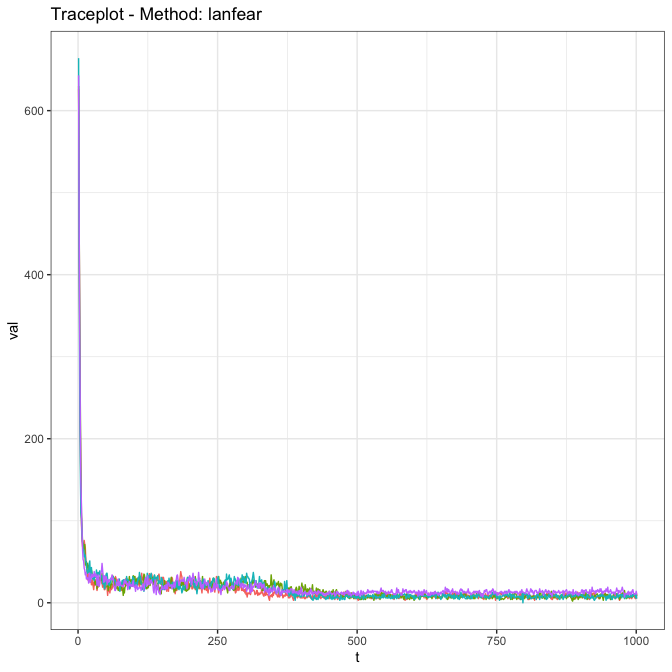
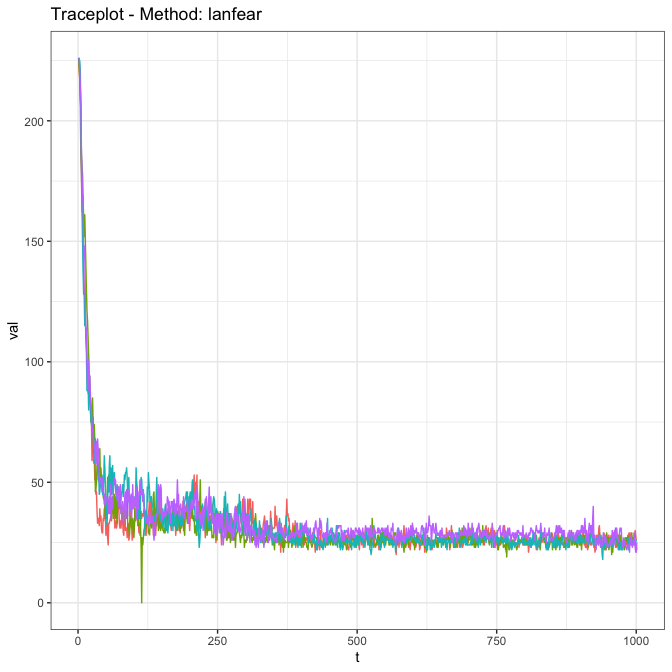
Prep for CRAN submission

diff --git a/README.md b/README.md
@@ -94,6 +94,12 @@ longer).
 
 ``` r
 skipTrack.diagnostics(ft, param = 'cijs')
+#> Warning in attr(x, "align"): 'xfun::attr()' is deprecated.
+#> Use 'xfun::attr2()' instead.
+#> See help("Deprecated")
+#> Warning in attr(x, "align"): 'xfun::attr()' is deprecated.
+#> Use 'xfun::attr2()' instead.
+#> See help("Deprecated")
 ```
 
 <img src="man/figures/README-unnamed-chunk-5-1.png" width="100%" style="display: block; margin: auto;" />
@@ -104,15 +110,15 @@ skipTrack.diagnostics(ft, param = 'cijs')
     #> 
     #> |Effective Sample Size: 
     #> |---------------------------
-    #> | Chain 1| Chain 2| Chain 3| Chain 4|     Sum|
-    #> |-------:|-------:|-------:|-------:|-------:|
-    #> |  86.077|    81.6|  91.054| 114.178| 372.909|
+    #> | Chain 1| Chain 2| Chain 3| Chain 4|    Sum|
+    #> |-------:|-------:|-------:|-------:|------:|
+    #> |  26.895|  18.342|  18.723|  19.814| 83.774|
     #> 
     #> |psrf: 
     #> |---------------------------
     #> | Point est.| Upper C.I.|
     #> |----------:|----------:|
-    #> |      1.001|      1.005|
+    #> |      1.003|      1.009|
 
 ### Visualization
 
@@ -148,21 +154,21 @@ produces the following output:
     #> Mean Coefficients: 
     #> 
     #>             Estimate       95% CI Lower 95% CI Upper
-    #> (Intercept)    3.406              3.376        3.436
+    #> (Intercept)    3.406              3.382        3.437
     #> 
     #> ----------------------------------------------------
     #> Precision Coefficients: 
     #> 
     #>             Estimate       95% CI Lower 95% CI Upper
-    #> (Intercept)     5.36              5.134        5.593
+    #> (Intercept)    5.342              5.156         5.53
     #> 
     #> ----------------------------------------------------
     #> Diagnostics: 
     #> 
     #>        Effective Sample Size       Gelman-Rubin
-    #> Betas                 4004.0                  1
-    #> Gammas                  21.8                  1
-    #> cijs                   351.1                  1
+    #> Betas                3077.74               1.00
+    #> Gammas                 21.85               1.01
+    #> cijs                   68.15               1.00
     #> 
     #> ----------------------------------------------------
 
@@ -180,21 +186,21 @@ we see:
     #> Mean Coefficients: 
     #> 
     #>             Estimate       95% CI Lower 95% CI Upper
-    #> (Intercept)    3.407              3.378        3.437
+    #> (Intercept)    3.405              3.378        3.433
     #> 
     #> ----------------------------------------------------
     #> Precision Coefficients: 
     #> 
     #>             Estimate       95% CI Lower 95% CI Upper
-    #> (Intercept)    5.342              5.125        5.569
+    #> (Intercept)    5.322              5.106        5.526
     #> 
     #> ----------------------------------------------------
     #> Diagnostics: 
     #> 
     #>        Effective Sample Size       Gelman-Rubin
-    #> Betas                4004.00                  1
-    #> Gammas                 21.77                  1
-    #> cijs                  460.23                  1
+    #> Betas                3818.63               1.00
+    #> Gammas                 22.59               1.01
+    #> cijs                   75.03               1.01
     #> 
     #> ----------------------------------------------------
 
@@ -215,7 +221,6 @@ Li, Kathy, Iñigo Urteaga, Amanda Shea, Virginia J Vitzthum, Chris H
 Wiggins, and Noémie Elhadad. 2022. “A Predictive Model for Next Cycle
 Start Date That Accounts for Adherence in Menstrual Self-Tracking.”
 *Journal of the American Medical Informatics Association* 29 (1): 3–11.
-<https://doi.org/10.1093/jamia/ocab182>.
 
 </div>
 

diff --git a/NEWS.md b/NEWS.md
@@ -1,6 +1,17 @@
-# skipTrack (development version)
+# skipTrack 0.2.0
 
-# skipTrack 0.1.2
+## New Features
+
+*`skipTrack.fit()` can now incorporate longitudinal data in X matrix. Users are no
+longer limited to one row of data per individual in X, but can now have one row 
+of data per cycle if desired.
+
+## Minor improvements and fixes
+
+*`skipTrack.results()` now produces a helpful error message if burnIn is less than fit length.
+
+*Fit now sets all starting cij values to 1 which is much more logical and mixing occurs 
+much quicker.
 
 # skipTrack 0.1.2
 

diff --git a/cran-comments.md b/cran-comments.md
@@ -1,17 +1,5 @@
 ## This is a Resubmission
 
-### I apologize for the confusion, messed up link syntax on the last resubmission.
-
-The previous submission gave "Found the following Rd file(s) with Rd \link{} targets missing package
-
-anchors:
-  skipTrack.diagnostics.Rd: genDiagnostic
-  
-Please provide package anchors for all Rd \link{} targets not in the
-package itself and the base packages."
-
-The links have been fixed.
-
 ## R CMD check results
 
 0 errors | 0 warnings | 0 notes
